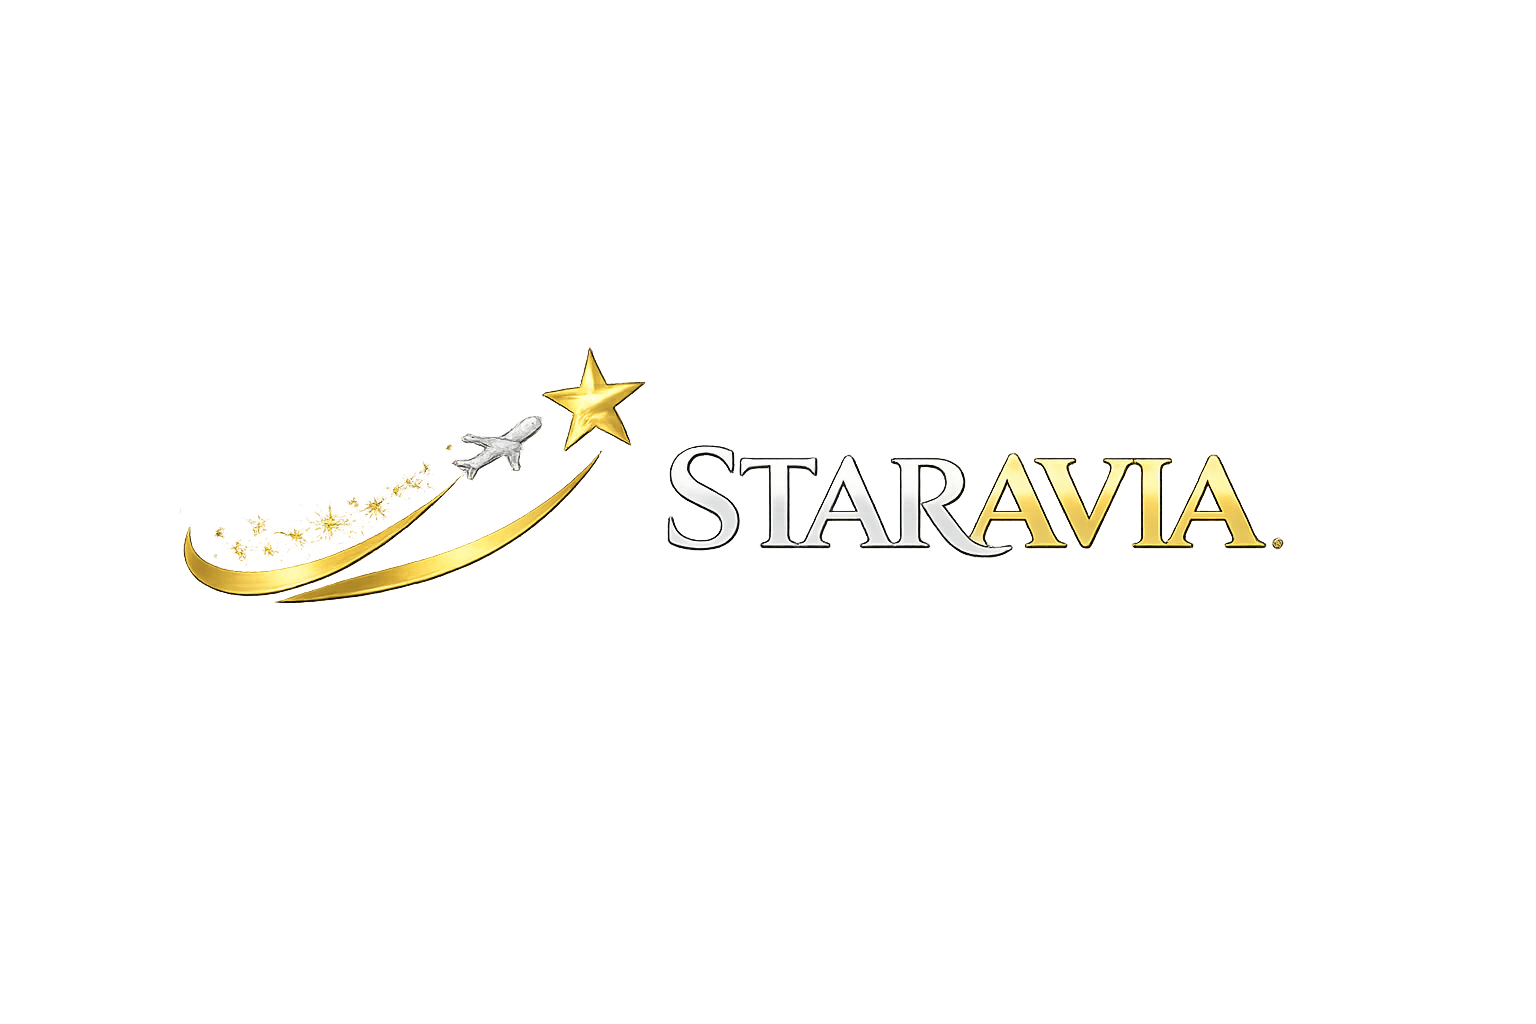
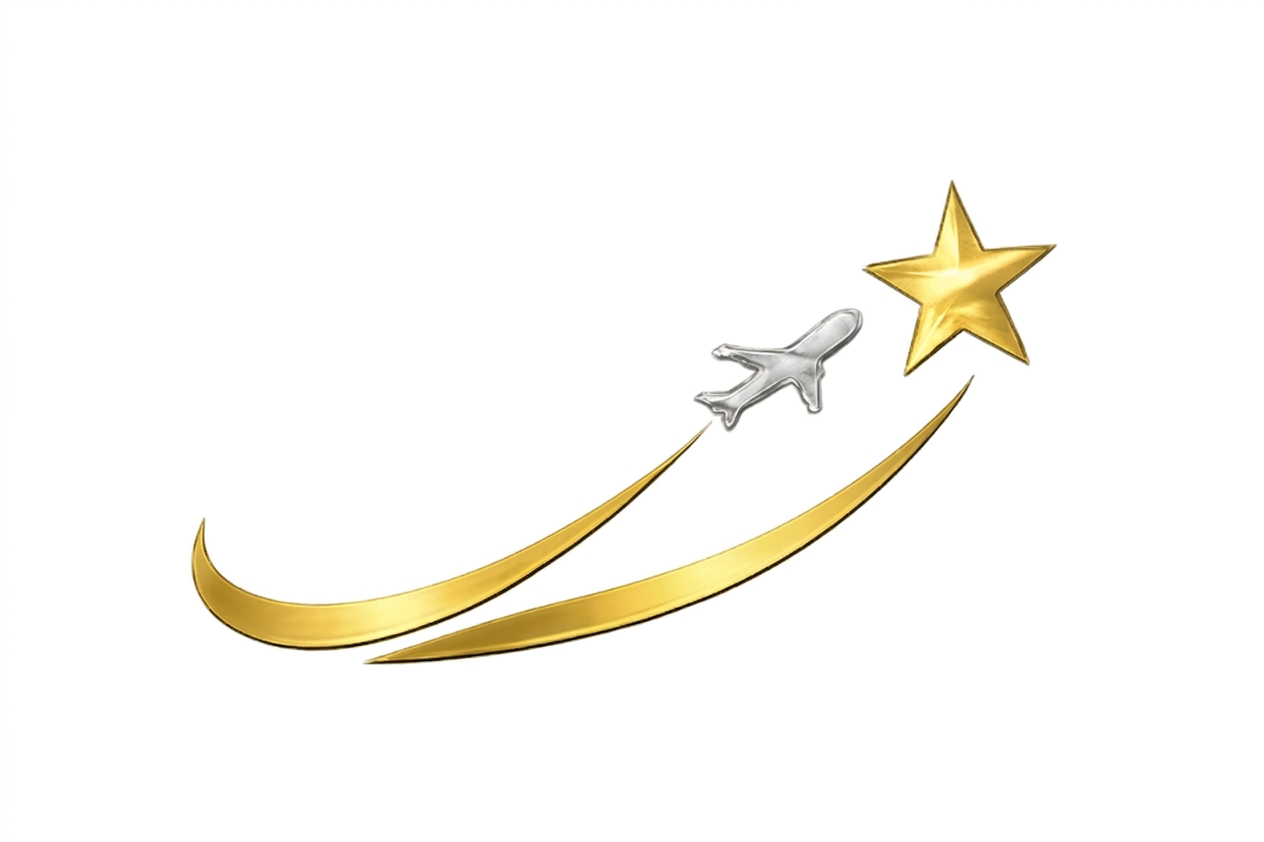
Done!

Changed region(s): [[0.1543, 0.2162, 0.8331, 0.8029], [0.0926, 0.3397, 0.432, 0.5867]]

diff --git a/index.html b/index.html
@@ -3,7 +3,7 @@
 <head>
   <meta charset="UTF-8" />
   <meta name="viewport" content="width=device-width, initial-scale=1.0" />
-  <title>STARAVIA | Premium Aviachiptalar</title>
+  <title>STARAVIA © | Premium and Luxury classes </title>
   <link rel="preconnect" href="https://fonts.googleapis.com">
   <link rel="preconnect" href="https://fonts.gstatic.com" crossorigin>
   <link href="https://fonts.googleapis.com/css2?family=Playfair+Display:ital,wght@0,400;0,600;0,700;1,400&family=Poppins:wght@300;400;500;600&display=swap" rel="stylesheet">
@@ -55,21 +55,13 @@
     <div class="mx-auto max-w-[1500px] flex items-center justify-between gap-4">
       <!-- Left: Logo -->
       <div class="flex items-center gap-3">
-        <img src="STARAVIA.png" alt="STARAVIA Logo" class="h-8 w-auto object-contain" onerror="this.style.display='none'">
+        <img src="STARAVIA.png" alt="STARAVIA Logo" class="h-10 w-auto object-contain" onerror="this.style.display='none'">
         <span class="font-display text-xl font-bold tracking-widest text-gold">STARAVIA</span>
       </div>
       <!-- Right: socials + language + 24/7 -->
       <div class="flex items-center gap-4">
         <div class="hidden sm:flex items-center gap-3">
-          <a href="#" aria-label="Instagram" class="text-gray-400 hover:text-gold transition-colors">
-            <svg class="w-3.5 h-3.5" fill="currentColor" viewBox="0 0 24 24"><path d="M12 2.163c3.204 0 3.584.012 4.85.07 3.252.148 4.771 1.691 4.919 4.919.058 1.265.069 1.645.069 4.849 0 3.205-.012 3.584-.069 4.849-.149 3.225-1.664 4.771-4.919 4.919-1.266.058-1.644.07-4.85.07-3.204 0-3.584-.012-4.849-.07-3.26-.149-4.771-1.699-4.919-4.92-.058-1.265-.07-1.644-.07-4.849 0-3.204.013-3.583.07-4.849.149-3.227 1.664-4.771 4.919-4.919 1.266-.057 1.645-.069 4.849-.069zm0-2.163c-3.259 0-3.667.014-4.947.072-4.358.2-6.78 2.618-6.98 6.98-.059 1.281-.073 1.689-.073 4.948 0 3.259.014 3.668.072 4.948.2 4.358 2.618 6.78 6.98 6.98 1.281.058 1.689.072 4.948.072 3.259 0 3.668-.014 4.948-.072 4.354-.2 6.782-2.618 6.979-6.98.059-1.28.073-1.689.073-4.948 0-3.259-.014-3.667-.072-4.947-.196-4.354-2.617-6.78-6.979-6.98-1.281-.059-1.69-.073-4.949-.073zm0 5.838c-3.403 0-6.162 2.759-6.162 6.162s2.759 6.163 6.162 6.163 6.162-2.759 6.162-6.163c0-3.403-2.759-6.162-6.162-6.162zm0 10.162c-2.209 0-4-1.79-4-4 0-2.209 1.791-4 4-4s4 1.791 4 4c0 2.21-1.791 4-4 4zm6.406-11.845c-.796 0-1.441.645-1.441 1.44s.645 1.44 1.441 1.44c.795 0 1.439-.645 1.439-1.44s-.644-1.44-1.439-1.44z"/></svg>
-          </a>
-          <a href="#" aria-label="Telegram" class="text-gray-400 hover:text-gold transition-colors">
-            <svg class="w-3.5 h-3.5" fill="currentColor" viewBox="0 0 24 24"><path d="M11.944 0A12 12 0 0 0 0 12a12 12 0 0 0 12 12 12 12 0 0 0 12-12A12 12 0 0 0 12 0a12 12 0 0 0-.056 0zm4.962 7.224c.1-.002.321.023.465.14a.506.506 0 0 1 .171.325c.016.093.036.306.02.472-.18 1.898-.962 6.502-1.36 8.627-.168.9-.499 1.201-.82 1.23-.696.065-1.225-.46-1.9-.902-1.056-.693-1.653-1.124-2.678-1.8-1.185-.78-.417-1.21.258-1.91.177-.184 3.247-2.977 3.307-3.23.007-.032.014-.15-.056-.212s-.174-.041-.249-.024c-.106.024-1.793 1.14-5.061 3.345-.48.33-.913.49-1.302.48-.428-.008-1.252-.241-1.865-.44-.752-.245-1.349-.374-1.297-.789.027-.216.325-.437.893-.663 3.498-1.524 5.83-2.529 6.998-3.014 3.332-1.386 4.025-1.627 4.476-1.635z"/></svg>
-          </a>
-          <a href="#" aria-label="Facebook" class="text-gray-400 hover:text-gold transition-colors">
-            <svg class="w-3.5 h-3.5" fill="currentColor" viewBox="0 0 24 24"><path d="M24 12.073c0-6.627-5.373-12-12-12s-12 5.373-12 12c0 5.99 4.388 10.954 10.125 11.854v-8.385H7.078v-3.47h3.047V9.43c0-3.007 1.792-4.669 4.533-4.669 1.312 0 2.686.235 2.686.235v2.953H15.83c-1.491 0-1.956.925-1.956 1.874v2.25h3.328l-.532 3.47h-2.796v8.385C19.612 23.027 24 18.062 24 12.073z"/></svg>
-          </a>
+          
         </div>
         <div class="w-px h-4 bg-gray-200 hidden sm:block"></div>
         <select class="bg-transparent text-gray-500 text-xs border-none outline-none cursor-pointer hover:text-gold transition-colors">
@@ -97,10 +89,11 @@
       <!-- NAVBAR -->
       <header class="relative z-50 flex items-center justify-between gap-4 px-6 py-6 md:px-12 lg:px-8">
         <nav class="hidden md:flex items-center gap-10 text-[15px] font-medium text-white/90">
-          <a href="#parvozlar" class="relative transition-colors duration-300 hover:text-gold after:absolute after:-bottom-1 after:left-0 after:h-[2px] after:w-0 after:bg-gold after:transition-all hover:after:w-full">Parvozlar</a>
-          <a href="#chegirmalar" class="relative transition-colors duration-300 hover:text-gold after:absolute after:-bottom-1 after:left-0 after:h-[2px] after:w-0 after:bg-gold after:transition-all hover:after:w-full">Chegirmalar</a>
-          <a href="#biz-haqimizda" class="relative transition-colors duration-300 hover:text-gold after:absolute after:-bottom-1 after:left-0 after:h-[2px] after:w-0 after:bg-gold after:transition-all hover:after:w-full">Biz haqimizda</a>
-          <a href="#fikrlar" class="relative transition-colors duration-300 hover:text-gold after:absolute after:-bottom-1 after:left-0 after:h-[2px] after:w-0 after:bg-gold after:transition-all hover:after:w-full">Fikrlar</a>
+          <a href="#parvozlar" class="relative transition-colors duration-300 hover:text-gold after:absolute after:-bottom-1 after:left-0 after:h-[2px] after:w-0 after:bg-gold after:transition-all hover:after:w-full">HOME</a>
+          <a href="#chegirmalar" class="relative transition-colors duration-300 hover:text-gold after:absolute after:-bottom-1 after:left-0 after:h-[2px] after:w-0 after:bg-gold after:transition-all hover:after:w-full">BUSINESS CLASS</a>
+          <a href="#biz-haqimizda" class="relative transition-colors duration-300 hover:text-gold after:absolute after:-bottom-1 after:left-0 after:h-[2px] after:w-0 after:bg-gold after:transition-all hover:after:w-full">HOW TO BOOK</a>
+          <a href="#fikrlar" class="relative transition-colors duration-300 hover:text-gold after:absolute after:-bottom-1 after:left-0 after:h-[2px] after:w-0 after:bg-gold after:transition-all hover:after:w-full">TESTIMONIALS</a>
+          <a href="#fikrlar" class="relative transition-colors duration-300 hover:text-gold after:absolute after:-bottom-1 after:left-0 after:h-[2px] after:w-0 after:bg-gold after:transition-all hover:after:w-full">ABOUT US</a>
         </nav>
         <div class="flex items-center gap-4">
           <button id="mobile-menu-btn" class="md:hidden text-white focus:outline-none p-2 rounded-lg bg-black/20 backdrop-blur-md">
@@ -109,13 +102,16 @@
           </button>
         </div>
         <div id="mobile-menu" class="absolute z-50 top-[90px] left-4 right-4 rounded-2xl glass-dark hidden flex-col gap-4 p-6 shadow-2xl md:hidden">
-          <a href="#parvozlar" class="mobile-nav-link text-white text-lg font-medium hover:text-gold">Parvozlar</a>
+          <a href="#parvozlar" class="mobile-nav-link text-white text-lg font-medium hover:text-gold">HOME</a>
           <hr class="border-white/10">
-          <a href="#chegirmalar" class="mobile-nav-link text-white text-lg font-medium hover:text-gold">Chegirmalar</a>
+          <a href="#chegirmalar" class="mobile-nav-link text-white text-lg font-medium hover:text-gold">BUSINESS CLASS</a>
           <hr class="border-white/10">
-          <a href="#biz-haqimizda" class="mobile-nav-link text-white text-lg font-medium hover:text-gold">Biz haqimizda</a>
+          <a href="#biz-haqimizda" class="mobile-nav-link text-white text-lg font-medium hover:text-gold">HOW TO BOOK</a>
           <hr class="border-white/10">
-          <a href="#fikrlar" class="mobile-nav-link text-white text-lg font-medium hover:text-gold">Fikrlar</a>
+          <a href="#fikrlar" class="mobile-nav-link text-white text-lg font-medium hover:text-gold">TESTIMONIALS</a>
+          <hr class="border-white/10">
+          <a href="#fikrlar" class="mobile-nav-link text-white text-lg font-medium hover:text-gold">ABOUT US</a>
+          <hr class="border-white/10">
           <a href="tel:[phone redacted]" class="mt-2 flex items-center justify-center gap-2 rounded-xl bg-gold px-6 py-3 text-base font-medium text-white transition-all hover:bg-gold-dark">
             <svg class="w-4 h-4" fill="none" stroke="currentColor" viewBox="0 0 24 24"><path stroke-linecap="round" stroke-linejoin="round" stroke-width="2" d="M3 5a2 2 0 012-2h3.28a1 1 0 01.948.684l1.498 4.493a1 1 0 01-.502 1.21l-2.257 1.13a11.042 11.042 0 005.516 5.516l1.13-2.257a1 1 0 011.21-.502l4.493 1.498a1 1 0 01.684.949V19a2 2 0 01-2 2h-1C9.716 21 3 14.284 3 6V5z"/></svg>
             [phone redacted]
@@ -129,7 +125,7 @@
 
         <!-- Title — smaller -->
         <h1 class="font-display text-2xl sm:text-3xl md:text-4xl font-bold text-white leading-tight max-w-3xl">
-          Biznes &amp; Birinchi Klassda <span class="text-gold">Arzonroq Uching</span>
+          Business &amp; First Class <span class="text-gold">Tickets</span>
         </h1>
 
         <!-- Alliance logos row -->
@@ -138,12 +134,10 @@
           <!-- Star Alliance -->
           <div class="flex items-center gap-2.5">
             <!-- Star Alliance star icon -->
-            <svg class="w-8 h-8" viewBox="0 0 48 48" fill="none">
-              <polygon points="24,4 28,18 42,18 31,27 35,41 24,32 13,41 17,27 6,18 20,18" fill="white" opacity="0.9"/>
-            </svg>
+            <img src="./pictures/star-alliance.png" alt="Star Alliance" class="w-8 h-8" viewBox="0 0 48 48" fill="none">
             <div class="text-left">
               <div class="text-white font-bold text-sm tracking-wide leading-none">STAR ALLIANCE</div>
-              <div class="text-white/50 text-[10px] mt-0.5">28 ta aviakompaniya</div>
+              <div class="text-white/50 text-[10px] mt-0.5">28 airlines</div>
             </div>
           </div>
 
@@ -152,13 +146,10 @@
           <!-- SkyTeam -->
           <div class="flex items-center gap-2.5">
             <!-- SkyTeam wing/leaf icon -->
-            <svg class="w-8 h-8" viewBox="0 0 48 48" fill="none">
-              <path d="M8 36 C12 20, 28 10, 40 14 C30 16, 22 22, 18 36 Z" fill="#00A0DC" opacity="0.9"/>
-              <path d="M10 38 C16 24, 32 16, 42 22 C32 22, 24 28, 20 38 Z" fill="white" opacity="0.7"/>
-            </svg>
+            <img src="./pictures/skyteam.png" alt="Star Alliance" class="w-8 h-8" viewBox="0 0 48 48" fill="none">
             <div class="text-left">
               <div class="text-white font-bold text-sm tracking-wide leading-none">SKYTEAM</div>
-              <div class="text-white/50 text-[10px] mt-0.5">19 ta aviakompaniya</div>
+              <div class="text-white/50 text-[10px] mt-0.5">19 airlines</div>
             </div>
           </div>
 
@@ -167,16 +158,10 @@
           <!-- Oneworld -->
           <div class="flex items-center gap-2.5">
             <!-- Oneworld globe icon -->
-            <svg class="w-8 h-8" viewBox="0 0 48 48" fill="none">
-              <circle cx="24" cy="24" r="18" stroke="white" stroke-width="2" opacity="0.9"/>
-              <ellipse cx="24" cy="24" rx="9" ry="18" stroke="white" stroke-width="2" opacity="0.9"/>
-              <line x1="6" y1="24" x2="42" y2="24" stroke="white" stroke-width="2" opacity="0.6"/>
-              <line x1="9" y1="14" x2="39" y2="14" stroke="white" stroke-width="1.5" opacity="0.4"/>
-              <line x1="9" y1="34" x2="39" y2="34" stroke="white" stroke-width="1.5" opacity="0.4"/>
-            </svg>
+            <img src="./pictures/oneworld.png" alt="Star Alliance" class="w-25 h-8" viewBox="0 0 48 48" fill="none">
             <div class="text-left">
               <div class="text-white font-bold text-sm tracking-wide leading-none">ONEWORLD</div>
-              <div class="text-white/50 text-[10px] mt-0.5">13 ta aviakompaniya</div>
+              <div class="text-white/50 text-[10px] mt-0.5">13 airlines</div>
             </div>
           </div>
 
@@ -186,8 +171,8 @@
         <div class="mt-5 w-full max-w-4xl">
           <!-- Trip type toggles -->
           <div class="flex items-center gap-1 mb-3 justify-start">
-            <button type="button" id="btn-round-trip" class="trip-type-btn px-4 py-1.5 rounded text-sm font-medium text-white/60 hover:text-white transition-colors">Borish-qaytish</button>
-            <button type="button" id="btn-one-way" class="trip-type-btn px-4 py-1.5 rounded text-sm font-semibold text-white border-b-2 border-gold transition-colors">Bir tomonlama</button>
+            <button type="button" id="btn-round-trip" class="trip-type-btn px-4 py-1.5 rounded text-sm font-medium text-white/60 hover:text-white transition-colors">Round-Trip</button>
+            <button type="button" id="btn-one-way" class="trip-type-btn px-4 py-1.5 rounded text-sm font-semibold text-white border-b-2 border-gold transition-colors">One-Way</button>
           </div>
 
           <!-- Main search form -->
@@ -208,7 +193,7 @@
             <div class="flex flex-col lg:flex-row items-stretch bg-white rounded-lg overflow-hidden shadow-2xl">
               <!-- From -->
               <div class="flex-1 flex flex-col justify-center px-4 py-2.5 border-b lg:border-b-0 lg:border-r border-gray-200 min-w-0">
-                <label class="text-[9px] text-gray-400 font-semibold uppercase tracking-widest mb-0.5">Qayerdan</label>
+                <label class="text-[9px] text-gray-400 font-semibold uppercase tracking-widest mb-0.5">From...</label>
                 <input id="from-input" list="airports" required autocomplete="off" placeholder="Toshkent (TAS)" class="text-ink font-semibold text-sm bg-transparent outline-none placeholder:text-gray-400 w-full"/>
               </div>
               <!-- Swap button -->
@@ -217,22 +202,22 @@
               </button>
               <!-- To -->
               <div class="flex-1 flex flex-col justify-center px-4 py-2.5 border-b lg:border-b-0 lg:border-r border-gray-200 min-w-0">
-                <label class="text-[9px] text-gray-400 font-semibold uppercase tracking-widest mb-0.5">Qayerga</label>
+                <label class="text-[9px] text-gray-400 font-semibold uppercase tracking-widest mb-0.5">To...</label>
                 <input id="to-input" list="airports" required autocomplete="off" placeholder="Istanbul (IST)" class="text-ink font-semibold text-sm bg-transparent outline-none placeholder:text-gray-400 w-full"/>
               </div>
               <!-- Departure -->
               <div class="flex-1 flex flex-col justify-center px-4 py-2.5 border-b lg:border-b-0 lg:border-r border-gray-200 min-w-0">
-                <label class="text-[9px] text-gray-400 font-semibold uppercase tracking-widest mb-0.5">Uchish sanasi</label>
-                <input id="depart-date" required type="text" onfocus="this.type='date'" onblur="if(!this.value)this.type='text'" placeholder="Sanani tanlang" class="text-ink font-semibold text-sm bg-transparent outline-none placeholder:text-gray-400 w-full cursor-pointer"/>
+                <label class="text-[9px] text-gray-400 font-semibold uppercase tracking-widest mb-0.5">Departure Date</label>
+                <input id="depart-date" required type="text" onfocus="this.type='date'" onblur="if(!this.value)this.type='text'" placeholder="Select Date" class="text-ink font-semibold text-sm bg-transparent outline-none placeholder:text-gray-400 w-full cursor-pointer"/>
               </div>
               <!-- Passengers / Cabin -->
               <div class="flex-1 flex flex-col justify-center px-4 py-2.5 border-b lg:border-b-0 lg:border-r border-gray-200 min-w-0 cursor-pointer" onclick="document.getElementById('pax-dropdown').classList.toggle('hidden')">
-                <label class="text-[9px] text-gray-400 font-semibold uppercase tracking-widest mb-0.5">Yo'lovchilar / Klass</label>
-                <div id="pax-label" class="text-ink font-semibold text-sm text-left">1 | Biznes</div>
+                <label class="text-[9px] text-gray-400 font-semibold uppercase tracking-widest mb-0.5">Passengers / Cabin</label>
+                <div id="pax-label" class="text-ink font-semibold text-sm text-left">1 | Business</div>
                 <!-- Dropdown -->
                 <div id="pax-dropdown" class="hidden absolute mt-14 bg-white border border-gray-200 rounded-xl shadow-xl z-50 p-4 w-60 text-left">
                   <div class="flex items-center justify-between mb-3">
-                    <span class="text-sm font-medium text-ink">Yo'lovchilar</span>
+                    <span class="text-sm font-medium text-ink">Passengers</span>
                     <div class="flex items-center gap-3">
                       <button type="button" onclick="changePax(-1)" class="w-7 h-7 rounded-full border border-gray-300 text-ink font-bold hover:bg-gray-100 transition-colors">−</button>
                       <span id="pax-count" class="text-sm font-bold text-ink w-4 text-center">1</span>
@@ -240,12 +225,12 @@
                     </div>
                   </div>
                   <div>
-                    <p class="text-sm font-medium text-ink mb-2">Klass</p>
+                    <p class="text-sm font-medium text-ink mb-2">Class</p>
                     <div class="grid grid-cols-2 gap-2">
-                      <button type="button" onclick="setCabin('Ekonom')" class="cabin-btn px-3 py-1.5 rounded-lg border border-gray-200 text-xs font-medium text-gray-600 hover:border-gold hover:text-gold transition-colors">Ekonom</button>
-                      <button type="button" onclick="setCabin('Premium')" class="cabin-btn px-3 py-1.5 rounded-lg border border-gray-200 text-xs font-medium text-gray-600 hover:border-gold hover:text-gold transition-colors">Premium</button>
-                      <button type="button" onclick="setCabin('Biznes')" class="cabin-btn px-3 py-1.5 rounded-lg border border-gold text-xs font-medium text-gold bg-gold/5">Biznes</button>
-                      <button type="button" onclick="setCabin('Birinchi')" class="cabin-btn px-3 py-1.5 rounded-lg border border-gray-200 text-xs font-medium text-gray-600 hover:border-gold hover:text-gold transition-colors">Birinchi</button>
+                      <button type="button" onclick="setCabin('Ekonom')" class="cabin-btn px-3 py-1.5 rounded-lg border border-gray-200 text-xs font-medium text-gray-600 hover:border-gold hover:text-gold transition-colors">Economy</button>
+                      <button type="button" onclick="setCabin('Premium')" class="cabin-btn px-3 py-1.5 rounded-lg border border-gray-200 text-xs font-medium text-gray-600 hover:border-gold hover:text-gold transition-colors">Premium Economy</button>
+                      <button type="button" onclick="setCabin('Biznes')" class="cabin-btn px-3 py-1.5 rounded-lg border border-gold text-xs font-medium text-gold bg-gold/5">Business</button>
+                      <button type="button" onclick="setCabin('Birinchi')" class="cabin-btn px-3 py-1.5 rounded-lg border border-gray-200 text-xs font-medium text-gray-600 hover:border-gold hover:text-gold transition-colors">First class</button>
                     </div>
                   </div>
                 </div>
@@ -253,7 +238,7 @@
               <!-- Search button -->
               <button type="submit" class="bg-gold hover:bg-gold-dark transition-colors text-white font-bold text-xs uppercase tracking-widest px-6 py-3 lg:py-0 flex items-center justify-center gap-2 flex-shrink-0">
                 <svg class="w-4 h-4" fill="none" stroke="currentColor" viewBox="0 0 24 24"><path stroke-linecap="round" stroke-linejoin="round" stroke-width="2" d="M21 21l-6-6m2-5a7 7 0 11-14 0 7 7 0 0114 0z"/></svg>
-                Qidirish
+                Search
               </button>
             </div>
           </form>
@@ -261,22 +246,15 @@
 
         <!-- Savings tagline -->
         <p class="mt-6 text-gold-soft italic text-sm md:text-base font-medium">
-          "O'tgan oy STARAVIA mijozlari <span class="font-bold text-gold not-italic">$1,700,000+</span> tejashdi"
+          "International airline tickets <span class="font-bold text-gold not-italic">Consolidators</span>"
         </p>
 
         <!-- Trust badges -->
         <div class="mt-8 flex flex-wrap items-center justify-center gap-8 md:gap-14">
-          <div class="flex items-center gap-3">
-            <div class="text-center">
-              <div class="text-white font-black text-2xl leading-none font-display">A+</div>
-              <div class="text-white/50 text-[10px] uppercase tracking-widest mt-0.5">BBB Akkreditatsiya</div>
-            </div>
-          </div>
           <div class="w-px h-8 bg-white/20 hidden sm:block"></div>
-          <div class="flex items-center gap-3">
             <div class="text-center">
-              <div class="text-white font-black text-2xl leading-none font-display">ARC</div>
-              <div class="text-white/50 text-[10px] uppercase tracking-widest mt-0.5">Akkreditatsiya Agentlik</div>
+              <div class="text-white font-black text-2xl leading-none font-display">TAC</div>
+              <div class="text-white/50 text-[10px] uppercase tracking-widest mt-0.5">Travel Assistance Company</div>
             </div>
           </div>
           <div class="w-px h-8 bg-white/20 hidden sm:block"></div>
@@ -290,7 +268,7 @@
           <div class="flex items-center gap-3">
             <div class="text-center">
               <div class="text-white font-black text-2xl leading-none font-display">200+</div>
-              <div class="text-white/50 text-[10px] uppercase tracking-widest mt-0.5">Aviakompaniyalar</div>
+              <div class="text-white/50 text-[10px] uppercase tracking-widest mt-0.5">Airlines</div>
             </div>
           </div>
         </div>